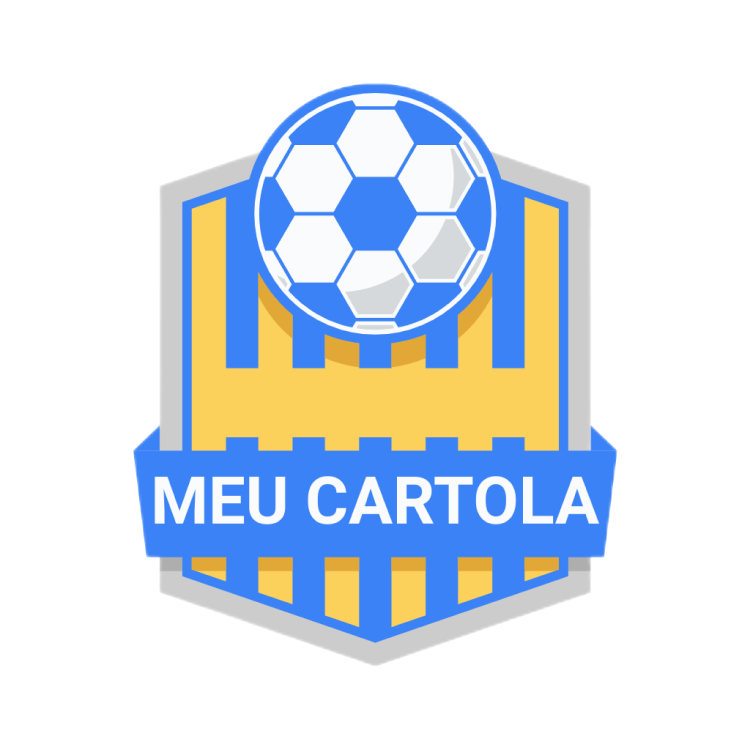
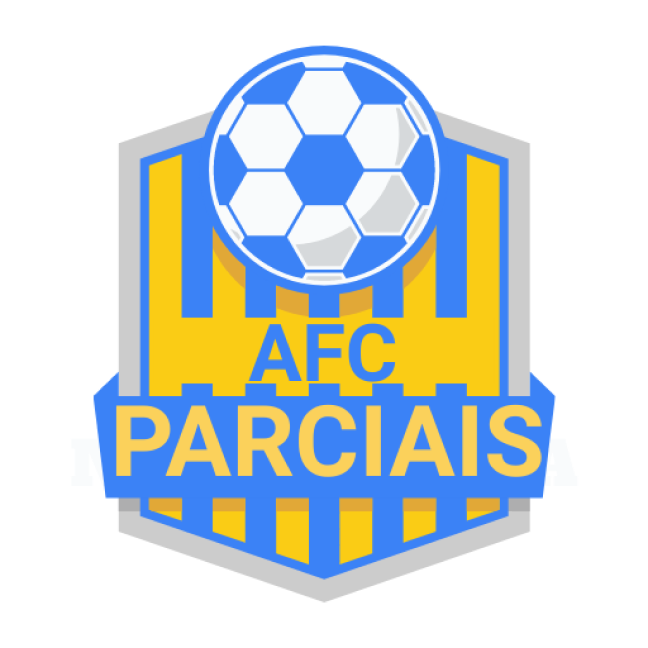
rename project and useLeague Hook

diff --git a/components/contexts/utils/TeamBanner.tsx b/components/contexts/utils/TeamBanner.tsx
@@ -1,7 +1,7 @@
 import { Link } from 'expo-router';
 import { Image, Pressable } from 'react-native';
 
-import cartolaProImage from '@/assets/images/pro.png';
+import proImage from '@/assets/images/pro.png';
 import { Text, View } from '@/components/Themed';
 import { FullClubInfo } from '@/models/Club';
 
@@ -24,9 +24,9 @@ export function TeamBanner({ team }: TeamBannerProps) {
           <View className="gap-1 pl-4">
             {team.time.assinante ? (
               <Image
-                source={cartolaProImage}
+                source={proImage}
                 className="w-10 h-5"
-                alt={`Selo PRO do cartola para quem é assinante`}
+                alt={`Selo PRO para quem é assinante`}
               />
             ) : (
               <View />

diff --git a/hooks/useLeagues.ts b/hooks/useLeagues.ts
@@ -45,7 +45,7 @@ const useLeagues = () => {
       marketStatus as MarketStatus;
 
     const privateLeagues = ligas.filter((item) => item.time_dono_id && !item.mata_mata);
-    const cartolaLeagues = ligas.filter((item) => !item.time_dono_id);
+    const defaultLeagues = ligas.filter((item) => !item.time_dono_id);
     const cups = ligas.filter((item) => item.mata_mata);
 
     const sectionLeagues = [
@@ -65,8 +65,8 @@ const useLeagues = () => {
 
     if (!isMarketClose) {
       sectionLeagues.push({
-        title: 'Ligas do Cartola',
-        data: cartolaLeagues,
+        title: 'Ligas Padrão',
+        data: defaultLeagues,
       });
     }
 

diff --git a/app/(tabs)/team/index.tsx b/app/(tabs)/team/index.tsx
@@ -298,7 +298,7 @@ export default () => {
   const isRefetching = useMemo(() => isRefetchingClub, [isRefetchingClub]);
 
   if (!isAutheticated) {
-    return <Login title="Para acessar o seu time, é necessário efetuar o login no Cartola FC." />;
+    return <Login title="Para acessar o seu time, é necessário efetuar o login." />;
   }
 
   if (marketStatus?.status_mercado === MARKET_STATUS_NAME.EM_MANUTENCAO) {

diff --git a/app/(tabs)/leagues/index.tsx b/app/(tabs)/leagues/index.tsx
@@ -39,7 +39,7 @@ export default function () {
   const isRefetching = isRefetchingMyClub || isRefetchingLeagues;
 
   if (!isAutheticated) {
-    return <Login title="Para acessar suas ligas, é necessário efetuar o login no Cartola FC." />;
+    return <Login title="Para acessar suas ligas, é necessário efetuar o login." />;
   }
 
   if (marketStatus?.status_mercado === MARKET_STATUS_NAME.EM_MANUTENCAO) {

diff --git a/constants/Errors.ts b/constants/Errors.ts
@@ -18,7 +18,7 @@ export const StatusErrorMessages: StatusErrorMessagesProps = {
     buttonText: 'Tente Novamente',
   },
   500: {
-    message: 'Servidor do cartola está instavél, tente novamente mais tarde.',
+    message: 'O Servidor está com instabilidade, tente novamente mais tarde.',
     code: 503,
     buttonText: 'Tente Novamente',
   },

diff --git a/constants/Endpoits.ts b/constants/Endpoits.ts
@@ -20,7 +20,6 @@ export const MATCHES_ACTUAL_ROUND = '/partidas';
 export const MATCHES_BY_ROUND = '/partidas/:round';
 
 // Auth
-export const IS_MEMBER_CARTOLA_EXPRESS = '/auth/express';
 export const GET_APPRECIATIONS = '/auth/atletas/valorizacao';
 export const GET_MY_CLUB = '/auth/time';
 export const GET_CLUB_HISTORY = '/auth/stats/historico';

diff --git a/components/structure/Login.tsx b/components/structure/Login.tsx
@@ -75,7 +75,7 @@ export function Login({ title }: LoginProps) {
             gap: 8,
           }}>
           <Feather name="log-in" size={24} color={Colors.light.background} />
-          <Text className="text-white"> Entrar no Cartola </Text>
+          <Text className="text-white"> Entrar </Text>
         </TouchableOpacity>
       </View>
 

diff --git a/app/(tabs)/profile/index.tsx b/app/(tabs)/profile/index.tsx
@@ -85,7 +85,7 @@ export default () => {
 
   if (!isAutheticated) {
     return (
-      <Login title="Para acessar as informações do seu perfil é necessário efetuar o login no Cartola FC." />
+      <Login title="Para acessar as informações do seu perfil é necessário efetuar o login." />
     );
   }
 

diff --git a/README.md b/README.md
@@ -1,6 +1,6 @@
-# Meu Cartola
+# AFC Parciais
 
-![Logo](assets/images/meu-cartola-readme.png)
+![Logo](assets/images/afc.png)
 
 ## 🚀 Funcionalidades
 
@@ -9,4 +9,3 @@
 - Acompanhar e gerenciar ligas
 - Acompanhar partidas
 - Gerenciar seu perfil
-- [Trello](https://trello.com/b/wJZMzuli/meu-cartola)
